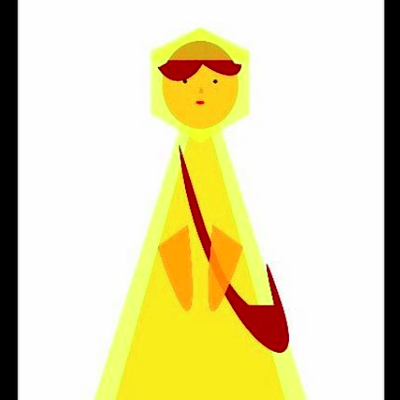
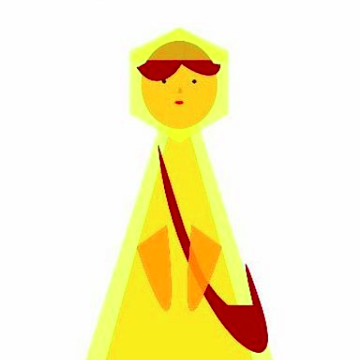
replaced cropped profile img with new cropped version

diff --git a/src/components/top-navigation-area/Top-nav.js b/src/components/top-navigation-area/Top-nav.js
@@ -32,7 +32,7 @@ function MainNav() {
         <a href="#User" className="user-profile-pic">
           UserIcon
           <img
-            src="./images/insta-profile-pic.png"
+            src="./images/insta-profile-pic-cropped.png"
             alt="user-profile-pic"
             className="user-profile-pic"
           />

diff --git a/src/scss/main.scss b/src/scss/main.scss
@@ -43,8 +43,9 @@ body {
         font-size: 27px;
       }
       .user-profile-pic {
-        width: 150px;
-        height: 150px;
+        width: 50px;
+        height: 50px;
+        border-radius: 50%;
       }
     }
   }
